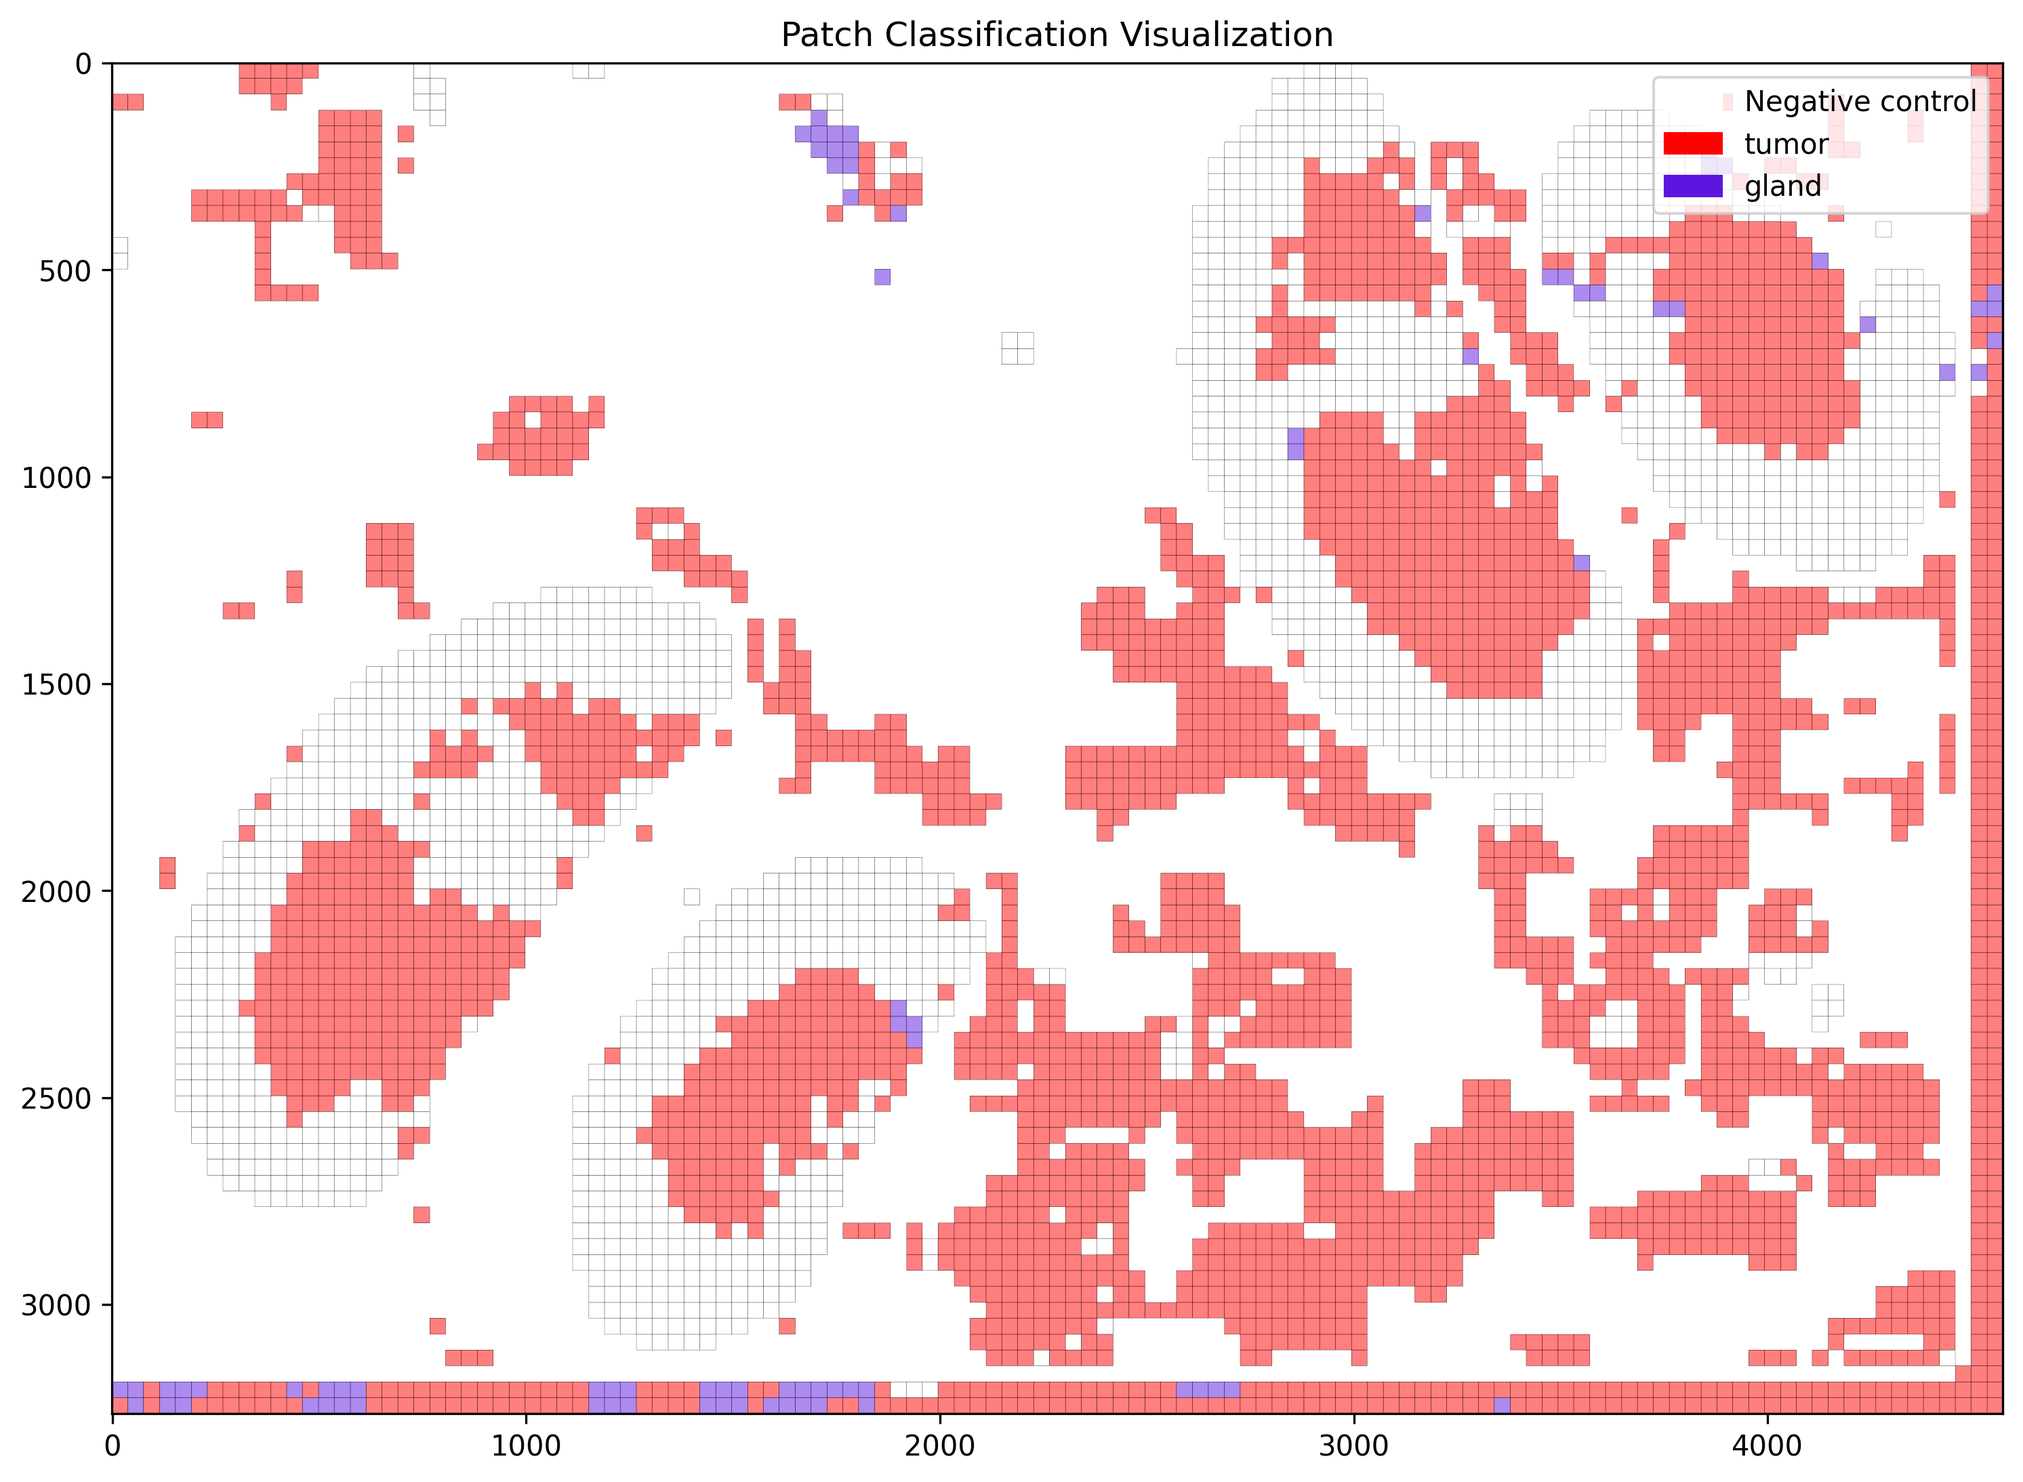
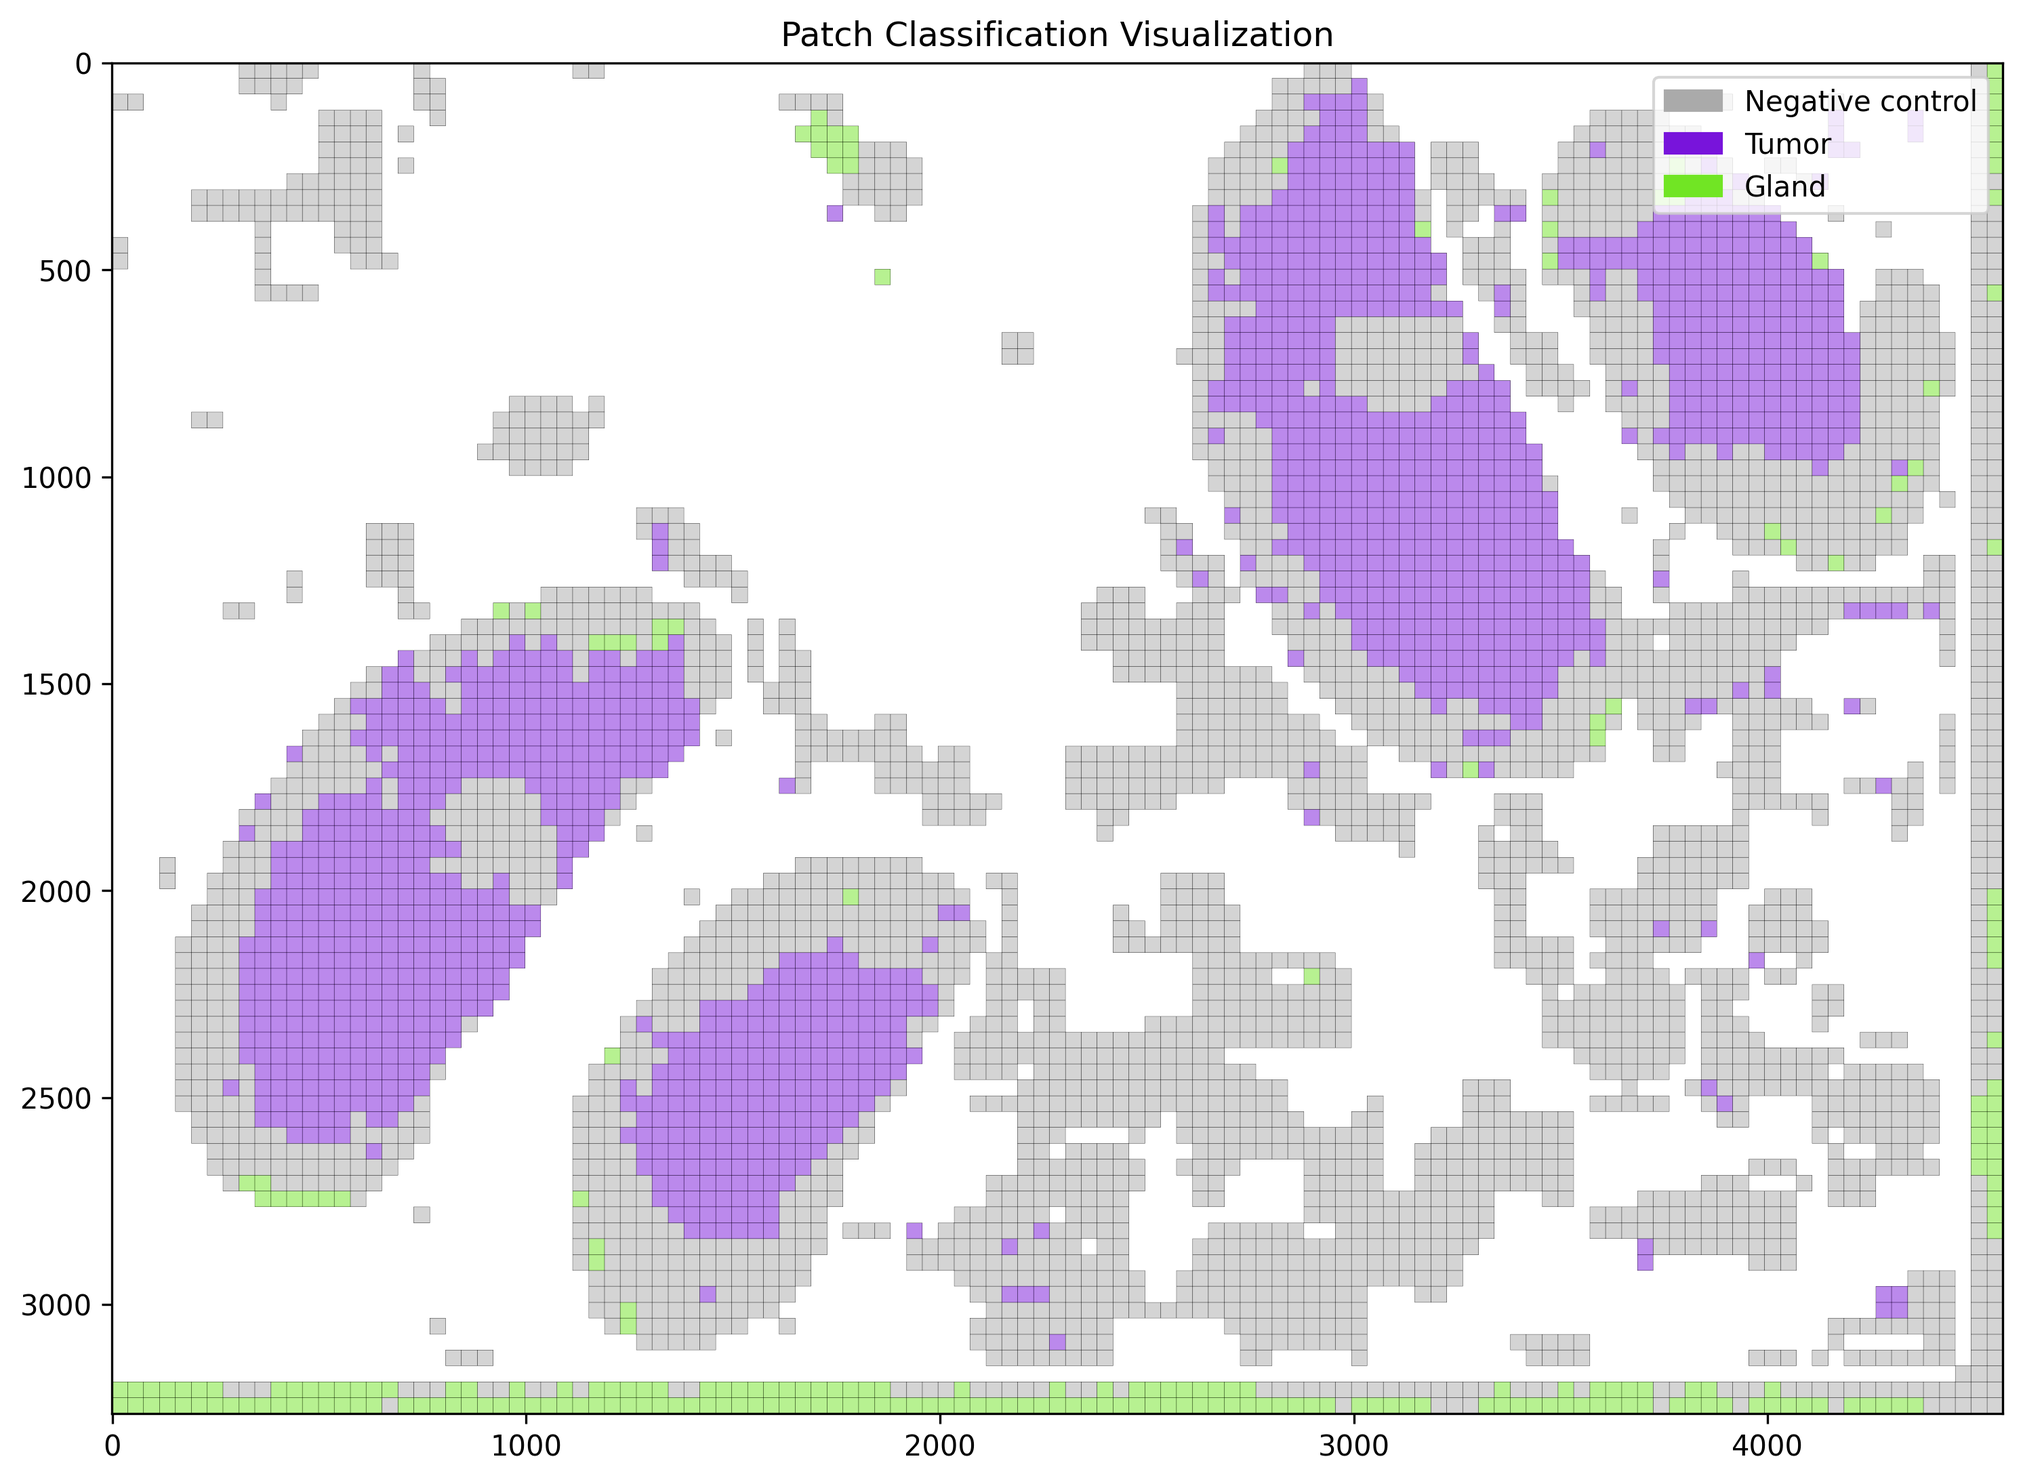
[update]:test scripts && fix

diff --git a/patch_classification/MUSK/classification_taskNode_musk.py b/patch_classification/MUSK/classification_taskNode_musk.py
@@ -71,7 +71,7 @@ def load_checkpoint_at_init():
     """
     Download and load the model at /init stage, store in global MUSK_MODEL.
     """
-    global MUSK_MODEL
+    global MUSK_MODEL, NODE_NAME
     if MUSK_MODEL is not None:
         print("MUSK model already loaded in memory => skip")
         return
@@ -79,7 +79,7 @@ def load_checkpoint_at_init():
     base_path = getattr(sys, '_MEIPASS', os.path.abspath(os.path.dirname(__file__)))
     checkpoint_path = os.path.join(base_path, "checkpoints", "model.safetensors")
     
-    print(f"[ClassificationNode] Looking for checkpoint at: {checkpoint_path}")
+    print(f"[{NODE_NAME}] Looking for checkpoint at: {checkpoint_path}")
     if not os.path.exists(checkpoint_path):
         print(f"Warning: Checkpoint not found at {checkpoint_path}, trying alternate locations...")
         alt_path = "checkpoints/contrastive_checkpoint_epoch_0.pt"
@@ -88,11 +88,11 @@ def load_checkpoint_at_init():
             print(f"Found checkpoint at: {checkpoint_path}")
     
     device = "cuda" if torch.cuda.is_available() else "cpu"
-    print(f"[ClassificationNode] Loading MUSK model at init stage..., device={device}")
+    print(f"[{NODE_NAME}] Loading MUSK model at init stage..., device={device}")
     
     MUSK_MODEL = MUSK(checkpoint_path)
     
-    print("[ClassificationNode] MUSK model loaded successfully at /init stage.")
+    print(f"[{NODE_NAME}] MUSK model loaded successfully at /init stage.")
 
 def _generate_text_description(nuclei_classes: list[str]) -> list[np.ndarray]:
     """Generate text prompts for each nuclei_class and create their feature vectors."""
@@ -191,7 +191,7 @@ def run_classification(args) -> Dict[str, Any]:
     if H5_PATH is None:
         raise ValueError("H5_PATH not set => please ensure /read is called first.")
 
-    global MUSK_MODEL
+    global MUSK_MODEL, NODE_NAME
     global progress_value
 
     result = {"status": "success", "message": "", "classification_count": 0}
@@ -219,11 +219,11 @@ def run_classification(args) -> Dict[str, Any]:
         
         time.sleep(1)
 
-        # B) read embedding => "SegmentationNode/embedding"
+        # B) read embedding => "NODE_NAME/embedding"
         with h5py.File(h5_path, 'r') as hf:
-            if 'SegmentationNode' not in hf:
-                raise ValueError("no SegmentationNode group found in h5 file")
-            seg_grp = hf['SegmentationNode']
+            if NODE_NAME not in hf:
+                raise ValueError("no NODE_NAME group found in h5 file")
+            seg_grp = hf[NODE_NAME]
             if 'embedding' not in seg_grp:
                 raise ValueError("embedding dataset not found in h5 file => no cell_embeddings")
             cell_embeddings = seg_grp['embedding'][()]
@@ -265,8 +265,8 @@ def run_classification(args) -> Dict[str, Any]:
             # color
             final_class_colors = None
             with h5py.File(h5_path, 'r') as hf:
-                if 'ClassificationNode' in hf and 'nuclei_class_HEX_color' in hf['ClassificationNode']:
-                    old_colors = hf['ClassificationNode']['nuclei_class_HEX_color'][()]
+                if NODE_NAME in hf and 'nuclei_class_HEX_color' in hf[NODE_NAME]:
+                    old_colors = hf[NODE_NAME]['nuclei_class_HEX_color'][()]
                     if len(old_colors) == len(nuclei_classes):
                         final_class_colors = [c.decode('utf-8') if hasattr(c, 'decode') else c for c in old_colors]
             if final_class_colors is None:
@@ -277,9 +277,17 @@ def run_classification(args) -> Dict[str, Any]:
             final_class_names = nuclei_classes
 
         # D) result => cell_classification
+        saved_datasets = {}
+        with h5py.File(h5_path, 'r') as hf:
+            if NODE_NAME in hf:
+                for name in ['coordinates', 'embedding']:
+                    if name in hf[NODE_NAME]:
+                        print(f"[{NODE_NAME}] Found {name}, will preserve it")
+                        saved_datasets[name] = hf[NODE_NAME][name][()]
+        
         with h5py.File(h5_path, 'a') as hf:
             if NODE_NAME in hf:
-               del hf[NODE_NAME]
+                del hf[NODE_NAME]
             grp_cls = hf.create_group(NODE_NAME)
 
             grp_cls.create_dataset('nuclei_class_id', data=predictions.astype(np.int32))
@@ -306,6 +314,15 @@ def run_classification(args) -> Dict[str, Any]:
             grp_cls.create_dataset('metadata', data=json.dumps(metadata).encode("utf-8"))
 
             hf.flush()
+            
+        # restore previous data
+        with h5py.File(h5_path, 'a') as hf:
+            for name, data in saved_datasets.items():
+                try:
+                    print(f"[{NODE_NAME}] Restoring {name}")
+                    hf[NODE_NAME].create_dataset(name, data=data)
+                except Exception as e:
+                    print(f"[{NODE_NAME}] Error restoring {name}: {e}")
 
         time.sleep(1)
 
@@ -345,24 +362,24 @@ def init_node():
     global IS_MODEL_INITED
     if not IS_MODEL_INITED:
         IS_MODEL_INITED = True
-        print("[ClassificationNode] /init => let's load HF big model now ...")
+        print("[MuskNode] /init => let's load HF big model now ...")
         load_checkpoint_at_init()
-        return {"status": "ok", "message": "ClassificationNode init done, big model loaded"}
+        return {"status": "ok", "message": "NODE_NAME init done, big model loaded"}
     else:
-        print("[ClassificationNode] /init => already done => skip re-loading model.")
+        print("[NODE_NAME] /init => already done => skip re-loading model.")
         return {"status": "ok", "message": "Already init."}
 
 @app.post("/read")
 def read_node(data: Dict[str, Any]):
     global NODE_NAME, DEPENDENCIES, H5_PATH, ARGS
-    NODE_NAME = data.get("node_name", "ClassificationNode")
+    NODE_NAME = data.get("node_name", "MuskNode")
     DEPENDENCIES = data.get("dependencies", [])
     H5_PATH = data.get("h5_path", None)
     # CLASS_COLORS = data.get("class_colors", [])
 
-    print(f"[ClassificationNode] /read => node_name={NODE_NAME}, deps={DEPENDENCIES}, h5_path={H5_PATH}")
+    print(f"[NODE_NAME] /read => node_name={NODE_NAME}, deps={DEPENDENCIES}, h5_path={H5_PATH}")
     if not H5_PATH or not os.path.exists(H5_PATH):
-        print("[ClassificationNode] no h5 => skip read.")
+        print(f"[{NODE_NAME}] no h5 => skip read.")
         return {"status": "ok", "message": "no H5 file found."}
 
     if ARGS is None:
@@ -381,20 +398,20 @@ def read_node(data: Dict[str, Any]):
                     val_json = json.loads(raw_str)
                 except:
                     val_json = raw_str
-                print(f"[ClassificationNode] user param {k} => {val_json}")
+                print(f"[{NODE_NAME}] user param {k} => {val_json}")
 
                 if k == "path":
                     ARGS.slidepath = val_json
                 elif k == "nuclei_classes":
                     if isinstance(val_json, list) and len(val_json) > 0:
                         ARGS.nuclei_classes = val_json
-                        print(f"[ClassificationNode] nuclei_classes: {ARGS.nuclei_classes}")
+                        print(f"[{NODE_NAME}] nuclei_classes: {ARGS.nuclei_classes}")
                 elif k == "nuclei_colors":
                     if isinstance(val_json, list) and len(val_json) > 0:
                         ARGS.nuclei_colors = val_json
-                        print(f"[ClassificationNode] nuclei_colors: {ARGS.nuclei_colors}")
+                        print(f"[{NODE_NAME}] nuclei_colors: {ARGS.nuclei_colors}")
 
-    return {"status": "ok", "message": "ClassificationNode read done"}
+    return {"status": "ok", "message": f"[{NODE_NAME}] read done"}
 
 @app.post("/execute")
 def execute_node():
@@ -404,7 +421,7 @@ def execute_node():
         return {"status": "error", "message": "Please /init first."}
 
     if not H5_PATH or not os.path.exists(H5_PATH):
-        print("[ClassificationNode] no H5 => skip classification.")
+        print(f"[{NODE_NAME}] no H5 => skip classification.")
         out_val = {
             "status": "ok",
             "message": "no H5 => skip classification",
@@ -412,13 +429,13 @@ def execute_node():
         }
         # Update progress to 100 when skipping
         progress_value = 100
-        print("Progress: 100%")
+        print(f"[{NODE_NAME}] Progress: 100%")
     else:
-        print(f"[ClassificationNode] /execute => run_classification with h5={H5_PATH}")
-        print(f"[ClassificationNode] ARGS: {ARGS}")
+        print(f"[{NODE_NAME}] /execute => run_classification with h5={H5_PATH}")
+        print(f"[{NODE_NAME}] ARGS: {ARGS}")
         out_val = run_classification(ARGS)
 
-    # write out to /ClassificationNode/output
+    # write out to /NODE_NAME/output
     if H5_PATH and os.path.exists(H5_PATH):
         with h5py.File(H5_PATH, "a") as hf:
             out_ds = f"{NODE_NAME}/output"
@@ -480,11 +497,11 @@ def main():
     import time
     parser = argparse.ArgumentParser()
     parser.add_argument('--port', type=int, default=8006, help='port')
-    parser.add_argument('--name', type=str, default='ClassificationNode', help='node name')
+    parser.add_argument('--name', type=str, default='MuskNode', help='node name')
     parser.add_argument('--manager_host', type=str, default='http://localhost:5001', help='manager service URL')
     args = parser.parse_args()
 
-    print(f"Starting ClassificationNode at port={args.port}")
+    print(f"Starting {args.name} at port={args.port}")
 
     def run_uvicorn():
         uvicorn.run(app, host="0.0.0.0", port=args.port)

diff --git a/patch_classification/MUSK/print.py b/patch_classification/MUSK/print.py
@@ -41,44 +41,44 @@ def read_h5_file(file_path):
 
 def generate_patch_visualization(file_path, output_image_path=None, scale_factor=1.0):
     """
-    生成基于patch分类的可视化图像
+    Generate visualization image based on patch classification
     
     Args:
-        file_path: H5文件路径
-        output_image_path: 输出图像的保存路径，如果为None则只显示不保存
-        scale_factor: 缩放因子，用于减小图像尺寸，默认为1.0（原始大小）
+        file_path: Path to H5 file
+        output_image_path: Path to save the output image, if None will only display without saving
+        scale_factor: Scale factor to reduce image size, default is 1.0 (original size)
     """
     try:
         with h5py.File(file_path, 'r') as f:
-            # 读取坐标信息
-            coordinates = f['SegmentationNode/coordinates'][...]
+            # Read coordinates information
+            coordinates = f['MuskNode/coordinates'][...]
             
-            # 读取分类ID
-            class_ids = f['ClassificationNode/nuclei_class_id'][...]
+            # Read classification ID
+            class_ids = f['MuskNode/nuclei_class_id'][...]
             
-            # 读取颜色信息
-            hex_colors = f['ClassificationNode/nuclei_class_HEX_color'][...]
+            # Read color information
+            hex_colors = f['MuskNode/nuclei_class_HEX_color'][...]
             color_dict = {}
             for i, hex_color in enumerate(hex_colors):
                 color_dict[i] = hex_color.decode('utf-8')
             
-            # 读取类别名称
-            class_names = f['ClassificationNode/nuclei_class_name'][...]
+            # Read class names
+            class_names = f['MuskNode/nuclei_class_name'][...]
             name_dict = {}
             for i, name in enumerate(class_names):
                 name_dict[i] = name.decode('utf-8')
             
-            # 计算图像大小并应用缩放
+            # Calculate image size and apply scaling
             max_x = int(np.max(coordinates[:, 2]) * scale_factor)
             max_y = int(np.max(coordinates[:, 3]) * scale_factor)
             
-            # 创建空白图像
+            # Create blank image
             img = Image.new('RGBA', (max_x, max_y), (255, 255, 255, 0))
             draw = ImageDraw.Draw(img)
             
-            # 绘制每个patch
+            # Draw each patch
             for i, (x1, y1, x2, y2) in enumerate(coordinates):
-                # 应用缩放
+                # Apply scaling
                 x1_scaled = int(x1 * scale_factor)
                 y1_scaled = int(y1 * scale_factor)
                 x2_scaled = int(x2 * scale_factor)
@@ -87,18 +87,18 @@ def generate_patch_visualization(file_path, output_image_path=None, scale_factor
                 class_id = class_ids[i]
                 hex_color = color_dict[class_id]
                 
-                # 将HEX颜色转换为RGB
+                # Convert HEX color to RGB
                 rgb_color = mcolors.hex2color(hex_color)
                 rgba_color = (int(rgb_color[0]*255), int(rgb_color[1]*255), int(rgb_color[2]*255), 128)
                 
-                # 绘制矩形
+                # Draw rectangle
                 draw.rectangle([x1_scaled, y1_scaled, x2_scaled, y2_scaled], fill=rgba_color, outline=(0, 0, 0, 255))
             
-            # 显示图像
+            # Display image
             plt.figure(figsize=(12, 10))
             plt.imshow(img)
             
-            # 创建图例
+            # Create legend
             legend_elements = []
             for class_id, name in name_dict.items():
                 hex_color = color_dict[class_id]
@@ -109,12 +109,12 @@ def generate_patch_visualization(file_path, output_image_path=None, scale_factor
             
             if output_image_path:
                 plt.savefig(output_image_path, dpi=300, bbox_inches='tight')
-                print(f"图像已保存至: {output_image_path}")
+                print(f"Image saved to: {output_image_path}")
             
             plt.show()
             
     except Exception as e:
-        print(f"生成可视化图像时出错: {e}")
+        print(f"Error generating visualization image: {e}")
 
 # File paths
 output_file = r"C:\Users\lsoho\Git\penn\Tissuelab-Model-Zoo\patch_classification\MUSK\CMU-1.svs.h5"
@@ -123,7 +123,7 @@ output_file = r"C:\Users\lsoho\Git\penn\Tissuelab-Model-Zoo\patch_classification
 print("\nNew file structure:")
 read_h5_file(output_file)
 
-# 生成和显示拼接图像
-print("\n生成拼接可视化图像:")
-# 使用0.1的缩放因子生成缩略图，只有原图10%的大小
+# Generate and display stitched image
+print("\nGenerating patch visualization image:")
+# Using scale factor 0.1 to create thumbnail, only 10% of the original size
 generate_patch_visualization(output_file, "patch_visualization_small.png", scale_factor=0.1)

diff --git a/patch_classification/MUSK/test.py b/patch_classification/MUSK/test.py
@@ -1,0 +1,32 @@
+import requests
+import json
+
+url = "http://localhost:5001/api/tasks/v1/start_workflow"
+
+payload = {
+    "h5_path": "C:\\Users\\lsoho\\Git\\penn\\Tissuelab-Model-Zoo\\patch_classification\\MUSK\\CMU-1.svs.h5",
+    "step1": {
+        "model": "MuskNode",
+        "input": {
+            "path": "C:\\Users\\lsoho\\Git\\penn\\Tissuelab-Model-Zoo\\patch_classification\\MUSK\\CMU-1.svs",
+            "nuclei_classes": ["Negative control", "Tumor", "Gland"],
+            "nuclei_colors": [
+                "#aaaaaa",
+                "#7814db",
+                "#71e524"
+            ]
+        }
+    }
+}
+
+try:
+    response = requests.post(url, json=payload)
+    
+    response.raise_for_status()
+    
+    print("response.status_code:", response.status_code)
+    print("response.json():")
+    print(json.dumps(response.json(), indent=4, ensure_ascii=False))
+    
+except requests.exceptions.RequestException as e:
+    print(f"RequestException: {e}")

diff --git a/patch_classification/MUSK/reconstruct.py b/patch_classification/MUSK/reconstruct.py
@@ -19,7 +19,7 @@ def convert_h5_structure(input_file, output_file):
         # Create new file and add SegmentationNode group
         with h5py.File(output_file, 'w') as target:
             # Create SegmentationNode group
-            seg_node = target.create_group('SegmentationNode')
+            seg_node = target.create_group('MuskNode')
             
             # Read data and create datasets with new field names
             if 'coordinates' in source:
